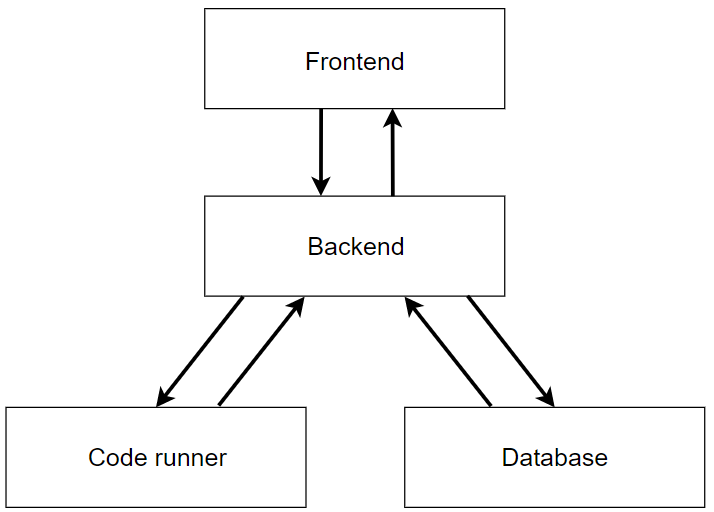
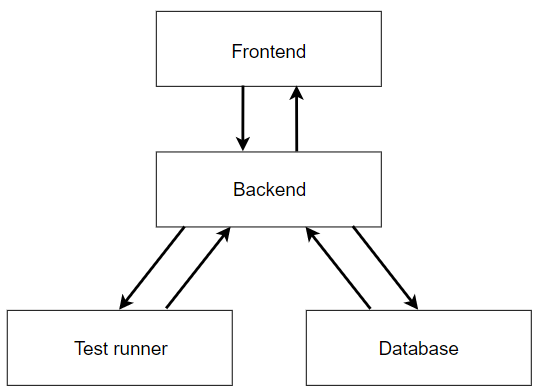
Update

diff --git a/report/sections/Chapter 05 - Architecture/Architecture.tex b/report/sections/Chapter 05 - Architecture/Architecture.tex
@@ -13,10 +13,7 @@ The overall architecture for the system can be seen in figure \ref{fig:Architect
 The architecture for the system is based on a client-server structure. Additionally, we have added an API running a separate server instance to handle code execution and test, called \textit{Test runner}. As each component is introduced, in the following sections, we will elaborate on the choices made for each component, in relation to this structure.
 
 \section{Back-end system}
-The backend system has several responsibilities including routing, data retrieval and updates, execution of code tests and communication with an authentication provider. The backend is the link between all the components in the system. It operates as a traditional server in a client-server architechture. 
-
-\subsection*{Authentication provider}
-\todo{Should be written by someone qualified}
+The back-end system has several responsibilities including routing, data retrieval and updates and orchestration of execution of code tests. The backend is the link between all the components in the system. It operates as a traditional server in a client-server architechture. 
 
 \section{Frontend}
 The frontend is the user facing component of our web application. The frontend is designed such that its user-interface and functionality is dependent on the role of the user. 
@@ -45,7 +42,7 @@ The numbers and letters at the beginning of each relationship line represents th
 The structure of database can be explained through the two types of users of the system. The lecturer and the student.
 In order to support different roles in the system, we have created the entites \textit{Role} and \textit{User}. The \textit{Role} entity has one attribute called \textbf{Name}. This corresponds to the name of the role. The \textit{User} entity has the attributes \textbf{Id}, which is a unique identifier, \textbf{Name}, \textbf{Email}, \textbf{EmailVerifed} which is when the email was verified and an \textbf{Image} attribute which contains the URL for an image of the user. The \textit{User} entity has a many-to-one relationship with the entity \textit{Role}, which means that users can only have one role.
 
-To support a lecturer in creating a syllabus for a semester course we have created the entities \textit{Syllabus}, \textit{Problemset}, \textit{Problem} and \textit{test}. For each entity, a set of attributes and relationships have been added to contain the relevant data.
+To support a lecturer in creating a syllabus for a semester course we have created the entities \textit{Syllabus}, \textit{Problemset}, \textit{Problem} and \textit{test}. For each entity, a set of attributes have been added to contain the relevant data and relationships between these entities to annotate their relation.
 For the \textit{Problem} entity we have added an \textbf{Id} attribute as a unique identifier, a \textbf{Name} attribute, a \textbf{Template} attribute, which contains code that will be automatically included in the editor when starting a problem. This ensures that the functions that required for the tests are included, as described in section Hspec \todo{Need proper ref - May not be hspec}. The final attribute is the \textbf{Description}, which contains the description of the exercise.
 
 The \textit{Test} entity has the attribute \textbf{Code}. This contains the test code that the lecturer has written for a problem. A \textit{Problem} and a \textit{Test} are in a one-to-many relationship with each other, where a \textit{Problem} has many \textit{tests}. This allows a lecturer to define multiple tests for a problem.
